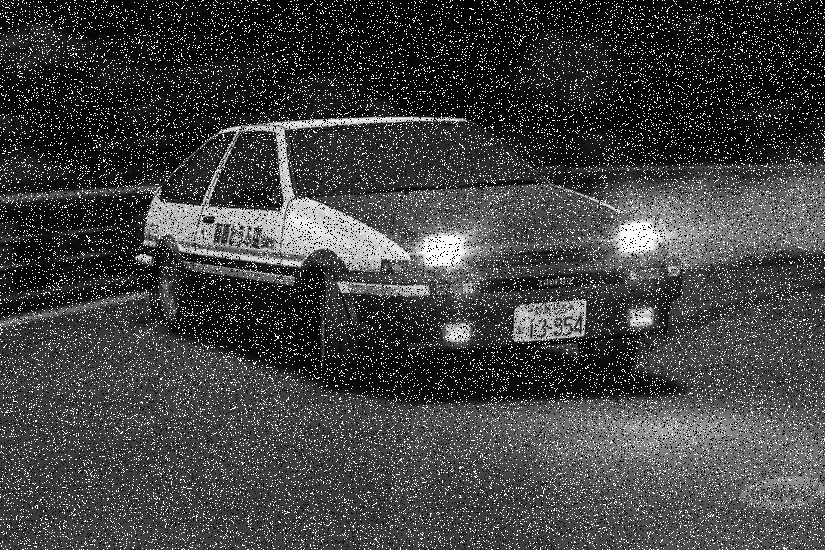
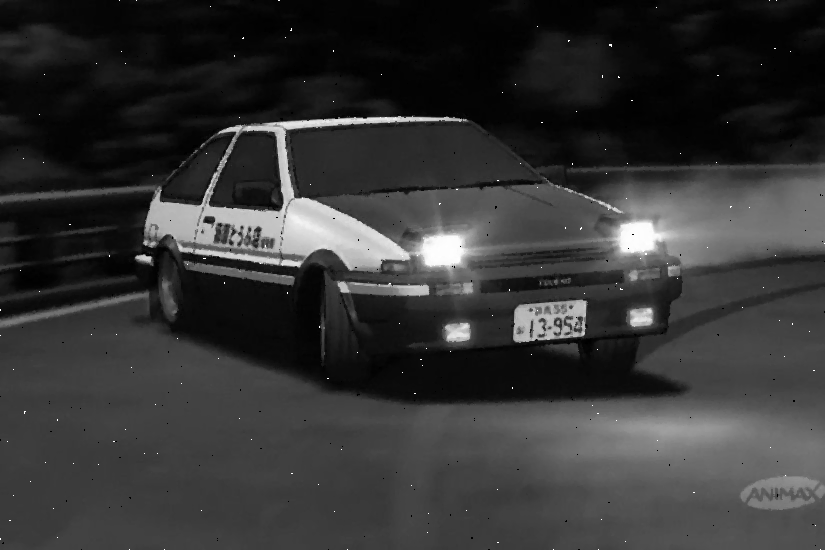
applied filter

diff --git a/classwork/Classwork3.py b/classwork/Classwork3.py
@@ -20,4 +20,7 @@ for i in range(number_of_black_pixel):
     x_coord = random.randint(0, img.shape[1] - 1)
     img[y_coord][x_coord] = 0
 
-cv.imwrite('Demo.png', img)
+# Apply median filter for noise reduction
+filtered_img = cv.medianBlur(img, 3)
+
+cv.imwrite('Demo.png', filtered_img)
